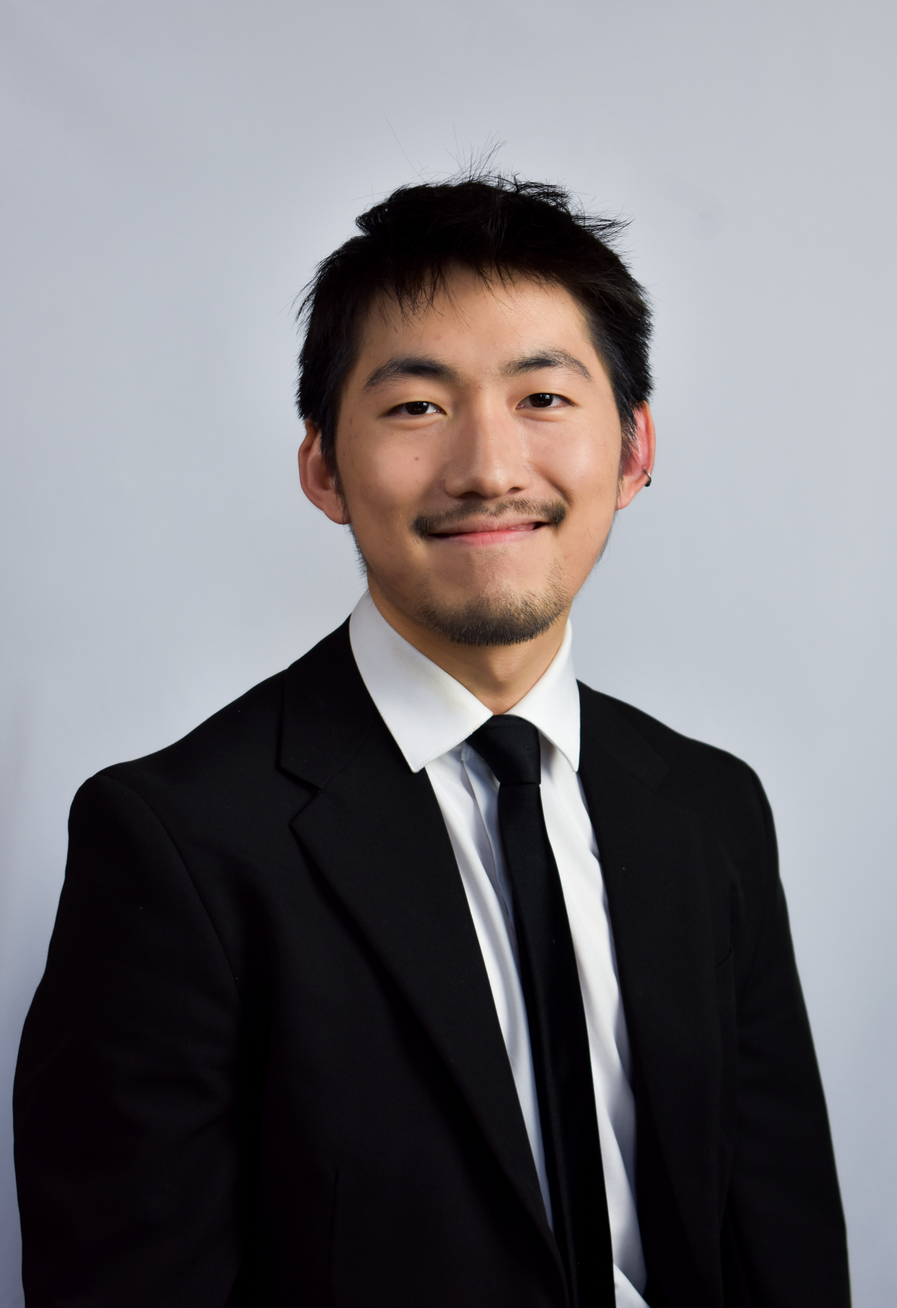
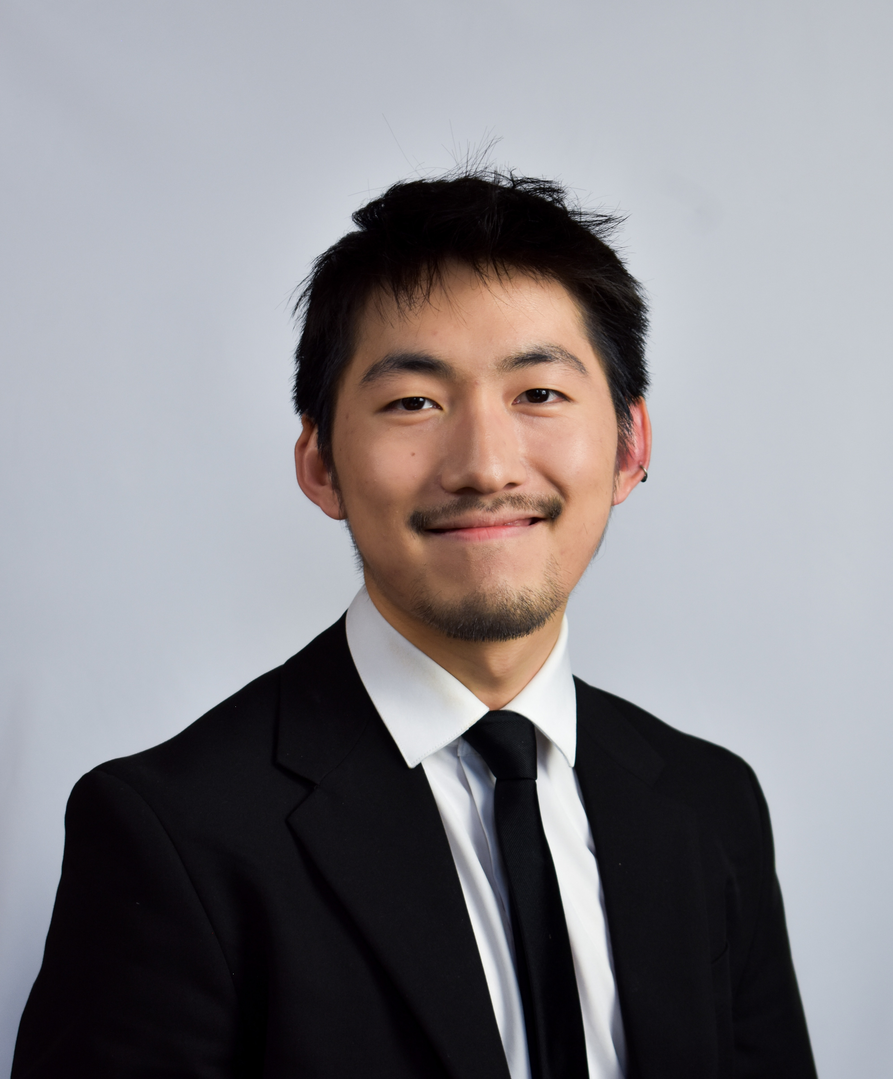
Image layout

Changed region(s): [[0.0, 0.1247, 0.9646, 1.0]]

diff --git a/content/_index.md b/content/_index.md
@@ -2,18 +2,35 @@
 title: 
 toc: false
 ---
+<style>
+.float-card {
+  float: left;
+  width: 250px;
+  margin-right: 20px;
+}
+</style>
 
-{{< cards >}}
-  {{< card link="/" title="Guifu Liu" image="/images/headshot.jpg" subtitle="Masters by Research student at School of Informatics, University of Edinburgh" >}}
-{{< /cards >}}
+<div class="float-card">
+  <a href="/">
+    <img src="/images/headshot.jpg" alt="Guifu Liu" style="width: 100%; border-radius: 0px;">
+    <!-- <h3>Guifu Liu</h3>
+    <p><em>Masters by Research student at School of Informatics, University of Edinburgh</em></p> -->
+  </a>
+</div>
+
+<!-- {{< cards >}}
+  {{< card link="/" title="Guifu Liu" image="" subtitle="Masters by Research student at School of Informatics, University of Edinburgh" >}}
+{{< /cards >}} -->
+
+<!-- {{< hextra/hero-container image="/images/headshot.jpg" imageTitle="Headshot" >}} -->
 
 Hi! I'm Guifu, a Masters by Research student at the [Institute for Language, Cognition and Computation](https://informatics.ed.ac.uk/ilcc), University of Edinburgh. Currently I'm co-supervised by [Prof. Bonnie Webber](https://homepages.inf.ed.ac.uk/bonnie/) and [Prof. Hannah Rohde](http://www.lel.ed.ac.uk/~hrohde/). 
 
+<!-- {{< /hextra/hero-container >}} -->
 I am interested in implicit meanings and pragmatic uses of language. I am working on examining and improving these aspects in language models.
 
 # News
-
-> 16/04/2025   Presented my poster at the 80th [Language Lunch](https://blogs.ed.ac.uk/languagelunch/) at University of Edinburgh
+> <sub>16/04/2025   Presented my poster at the 80th [Language Lunch](https://blogs.ed.ac.uk/languagelunch/) at University of Edinburgh </sub>
 
 # Hobbies
 I enjoy electronic and classical music, and am a flutist. I also have a passion for communication design.
@@ -22,5 +39,3 @@ I enjoy electronic and classical music, and am a flutist. I also have a passion 
   {{< card link="about" title="About" icon="user" >}}
 {{< /cards >}} -->
 
-
-<sub>This site is built using [Hextra](https://imfing.github.io/hextra).</sub>
